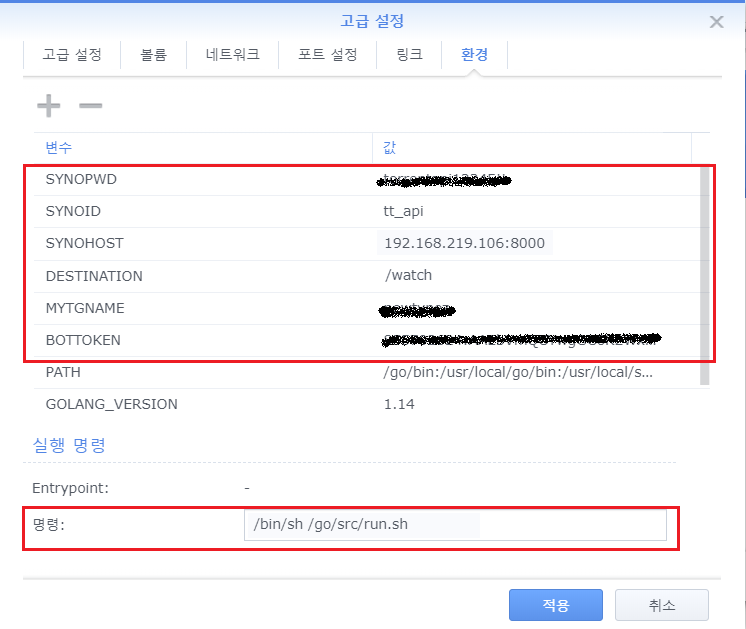
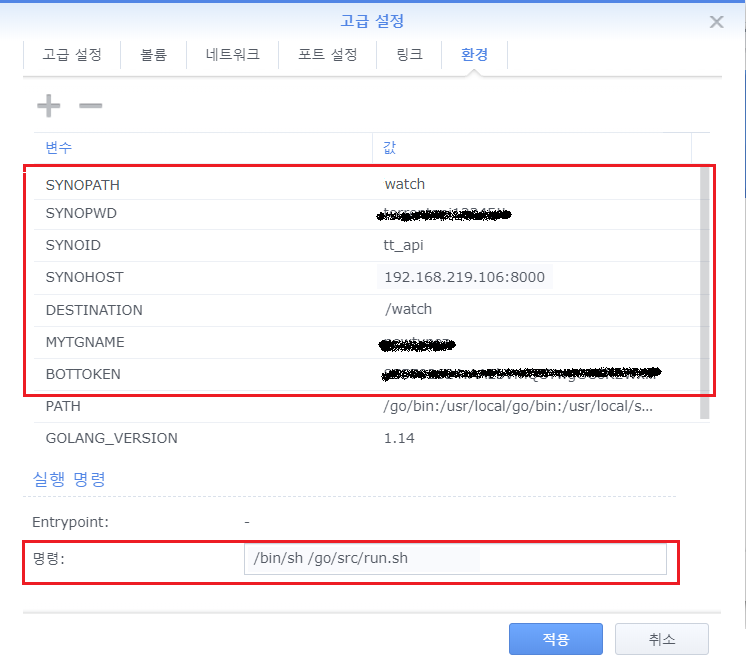
SYNOPATH 추가하여 마그넷과 Torrent 파일의 경로를 구분하도록 수정

diff --git a/SynoAPI.go b/SynoAPI.go
@@ -47,6 +47,7 @@ func CreateMagnet(dst string, uri string) error {
 	host := os.Getenv("SYNOHOST")
 	synoID := os.Getenv("SYNOID")
 	synoPwd := os.Getenv("SYNOPWD")
+	synoDest := os.Getenv("SYNOPATH")
 
 	if debug {
 		log.Printf("[LOGIN] SYNOHOST:[%s]", string(host))
@@ -96,7 +97,7 @@ func CreateMagnet(dst string, uri string) error {
 			"api":         {"SYNO.DownloadStation.Task"},
 			"version":     {"2"},
 			"method":      {"create"},
-			"destination": {dst},
+			"destination": {synoDest},
 			"uri":         {uri},
 			"_sid":        {loginResult.Sid}})
 

diff --git a/README.md b/README.md
@@ -78,10 +78,11 @@ Telegram bot for Synology Download Station
      ![run-docker4.png](images/run-docker4.png)
         - BOTTOKEN에는 봇을 생성할때 기록해둔 토큰값을 입력합니다.
         - MYTGNAME에는 봇과 대화할 내 텔레그램 이름입니다.
-        - DESTINATION에는 Download Station에서 감시할 '/watch' 경로입니다.
+        - DESTINATION에는 볼륨에서 마운트한 '/watch' 경로입니다. 앞에 "/"가 있어야 합니다.
         - SYNOHOST는 Synology API 설정에서 지정한 사용자 지정 URL과 포트입니다.
         - SYNID는 위에서 생성한 Synology API 연동 ID입니다.
         - SYNPWD는 위에서 생성한 Synology API 연동 ID의 암호입니다.
+        - SYNOPATH는 Download Station에서 감시할 시놀로지 기준의 경로입니다. 앞에 "/"가 없어야 합니다.
     - 명령에는 /bin/sh /go/src/run.sh 를 입력합니다.
     - 이렇게 하면 시놀에서 Golang을 실행할 수 있는 환경이 만들어집니다.
 
@@ -117,3 +118,5 @@ Telegram bot for Synology Download Station
     - '/query 조회정보' 로그에 SYNO API 지원 목록 출력 (기본값 'SYNO.API.Auth,SYNO.DownloadStation.Task')
 - 2020.03.17
   - 텔레그램에 query 커맨드의 결과를 텔레그램을 통해 파일로 받을 수 있도록 수정.
+- 2020.03.28
+  - SYNOPATH 추가하여 마그넷과 Torrent 파일의 경로를 구분하도록 수정
